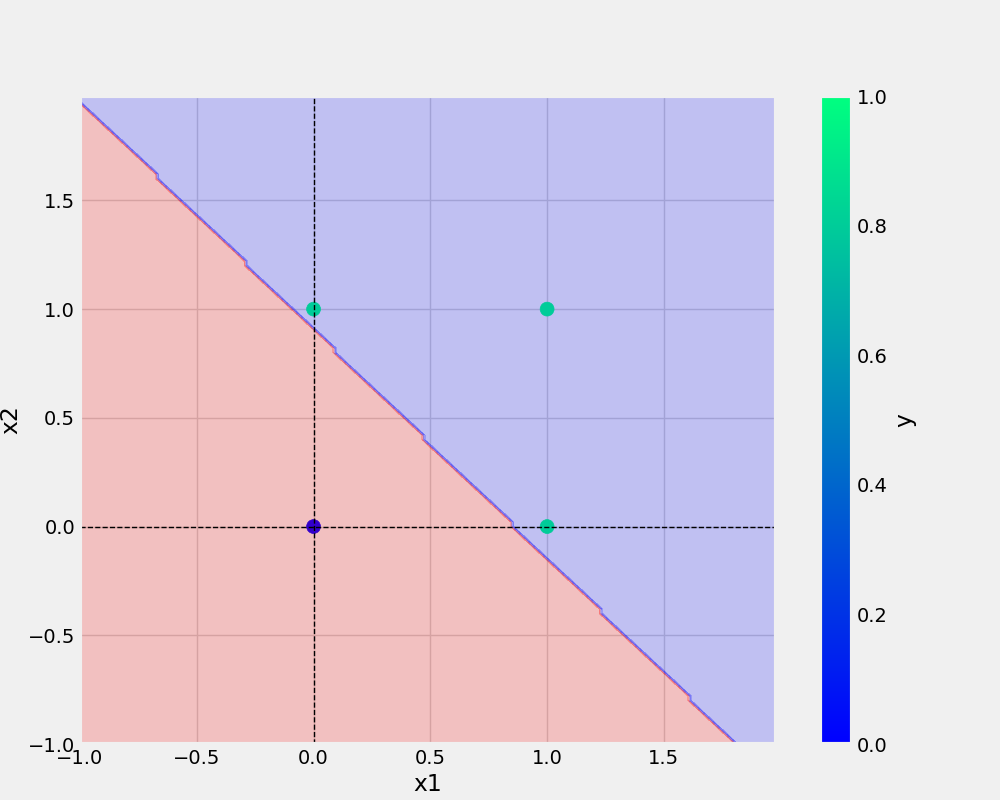
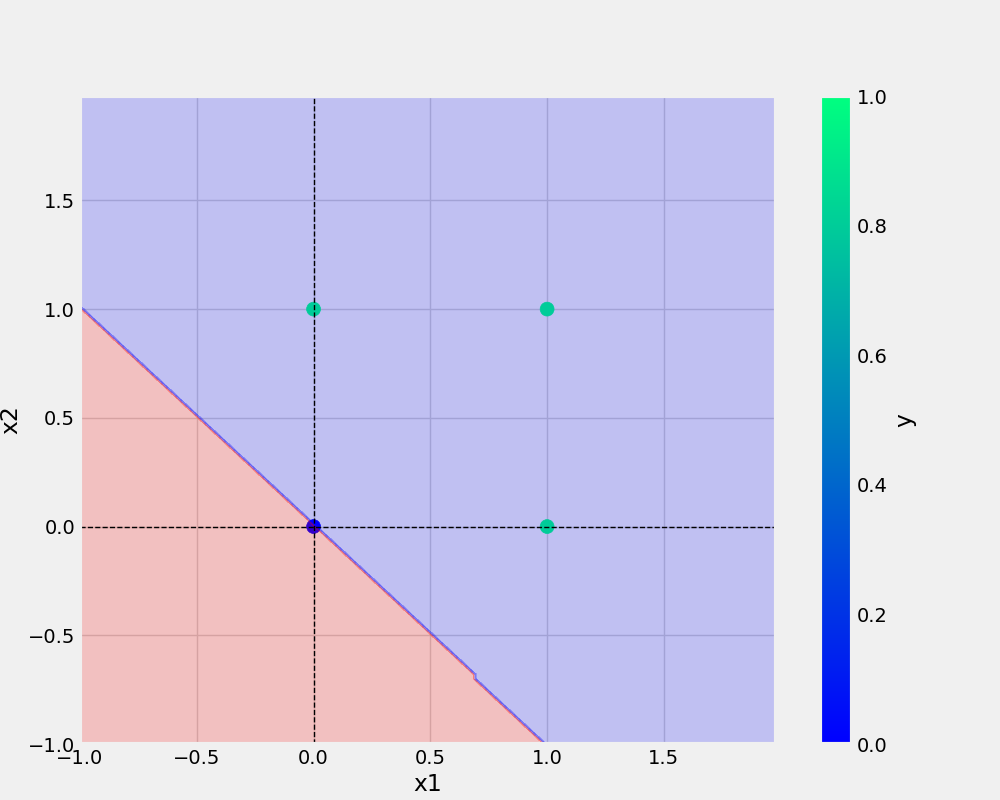
logging and progress bar addedd

Changed region(s): [[0.062, 0.125, 0.744, 0.9375]]

diff --git a/utils/all_utils.py b/utils/all_utils.py
@@ -4,6 +4,7 @@ import pandas as pd
 import joblib   # for saving model as a binary file
 from matplotlib.colors import ListedColormap
 import os
+import logging
 
 plt.style.use("fivethirtyeight")
 
@@ -12,11 +13,12 @@ def prepare_data(df):
     """it is used to seperate the dependent variable and independednt features
 
     Args:
-        df (pd.DataFrame): its the pandas DataFrame to the  
+        df (pd.DataFrame): its the pandas DataFrame to   
 
     Returns:
         tuple: it returns the tuples of dependent variables and independent variables
     """
+    logging.info("preparing the data by segregating dependent and independent variable")
     X = df.drop("y", axis=1)
     y = df["y"]
     return X, y
@@ -28,14 +30,21 @@ def save_model(model, filename):
         model (python object): trained model to
         filename (str]): path to save the trained model
     """
-  model_dir = "models"
-  os.makedirs(model_dir, exist_ok=True) # ONLY CREATE IF MODEL_DIR DOESN"T EXISTS
-  filePath = os.path.join(model_dir, filename) # model/filename
-  joblib.dump(model, filePath)
-
+    logging.info("saving the trained model")
+    model_dir = "models"
+    os.makedirs(model_dir, exist_ok=True) # ONLY CREATE IF MODEL_DIR DOESN"T EXISTS
+    filePath = os.path.join(model_dir, filename) # model/filename
+    joblib.dump(model, filePath)
+    logging.info(f"saved the trained model {filePath}")
 
 def save_plot(df, file_name, model):
+    """
+    :param df:  its a DataFrame
+    :param file_name: its path to save the plot
+    :param model: trained model
+    """
     def _create_base_plot(df):
+        logging.info("creatig the base plot")
         df.plot(kind="scatter", x="x1", y="x2", c="y", s=100, cmap="winter")
         plt.axhline(y=0, color="black", linestyle="--", linewidth=1)
         plt.axvline(x=0, color="black", linestyle="--", linewidth=1)
@@ -43,6 +52,7 @@ def save_plot(df, file_name, model):
         figure.set_size_inches(10, 8)
 
     def _plot_decision_regions(X, y, classifier, resolution=0.02):
+        logging.info("creating decision regions")
         colors = ("red", "blue", "lightgreen", "gray", "cyan")
         colormap = ListedColormap(colors[: len(np.unique(y))])
 
@@ -54,8 +64,8 @@ def save_plot(df, file_name, model):
 
         xx1, xx2 = np.meshgrid(np.arange(x1_min, x1_max, resolution),
                                np.arange(x2_min, x2_max, resolution))
-        print(xx1)
-        print(xx1.ravel())
+        #print(xx1)
+        #print(xx1.ravel())
         Z = classifier.predict(np.array([xx1.ravel(), xx2.ravel()]).T)
         Z = Z.reshape(xx1.shape)
         plt.contourf(xx1, xx2, Z, alpha=0.2, cmap=colormap)
@@ -69,3 +79,4 @@ def save_plot(df, file_name, model):
     os.makedirs(plot_dir, exist_ok=True)  # ONLY CREATE IF MODEL_DIR DOES NOT EXISTS
     plotPath = os.path.join(plot_dir, file_name)  # model/filename
     plt.savefig(plotPath)
+    logging.info(f"saving the plot at {plotPath}")

diff --git a/utils/model.py b/utils/model.py
@@ -1,10 +1,10 @@
 import numpy as np
-
-
+import logging
+from tqdm import tqdm   # to show progress bar for "for" loop
 class Perceptron:
   def __init__(self, eta, epochs):
     self.weights = np.random.randn(3) * 1e-4 # SMALL WEIGHT INIT
-    print(f"initial weights before training: \n{self.weights}")
+    logging.info(f"initial weights before training: \n{self.weights}")
     self.eta = eta # LEARNING RATE
     self.epochs = epochs 
 
@@ -18,20 +18,20 @@ class Perceptron:
     self.y = y
 
     X_with_bias = np.c_[self.X, -np.ones((len(self.X), 1))] # CONCATINATION
-    print(f"X with bias: \n{X_with_bias}")
+    logging.info(f"X with bias: \n{X_with_bias}")
 
-    for epoch in range(self.epochs):
-      print("--"*10)
-      print(f"for epoch: {epoch}")
-      print("--"*10)
+    for epoch in tqdm(range(self.epochs),total=self.epochs,desc="training the model"):
+      logging.info("--"*10)
+      logging.info(f"for epoch: {epoch}")
+      logging.info("--"*10)
 
       y_hat = self.activationFunction(X_with_bias, self.weights) # foward propagation
-      print(f"predicted value after forward pass: \n{y_hat}")
+      logging.info(f"predicted value after forward pass: \n{y_hat}")
       self.error = self.y - y_hat
-      print(f"error: \n{self.error}")
+      logging.info(f"error: \n{self.error}")
       self.weights = self.weights + self.eta * np.dot(X_with_bias.T, self.error) # backward propagation
-      print(f"updated weights after epoch:\n{epoch}/{self.epochs} : \n{self.weights}")
-      print("#####"*10)
+      logging.info(f"updated weights after epoch:\n{epoch}/{self.epochs} : \n{self.weights}")
+      logging.info("#####"*10)
 
 
   def predict(self, X):
@@ -40,5 +40,5 @@ class Perceptron:
 
   def total_loss(self):
     total_loss = np.sum(self.error)
-    print(f"total loss: {total_loss}")
+    logging.info(f"total loss: {total_loss}")
     return total_loss

diff --git a/or.py b/or.py
@@ -1,11 +1,23 @@
+"""
+author:TRM
+email: 
+"""
+
 from utils.model import Perceptron
 from utils.all_utils import prepare_data, save_plot, save_model
 import pandas as pd
+import os
+import logging  # to display info and saved in log file intead of print command
 
+# asctime= code executed time, levelname=all info happeneing.. module=which module got executed..message=message to print
+logging_str="[%(asctime)s: %(levelname)s: %(module)s] %(message)s"
+log_dir='logs'
+os.makedirs(log_dir,exist_ok=True)
+logging.basicConfig(filename=os.path.join(log_dir,'running_logs.log'),level=logging.INFO, format=logging_str,filemode='a')
 
 def main(data, modelName, plotName, eta, epochs):
     df = pd.DataFrame(data)
-    print(df)
+    logging.info(f"This is actual dataframe {df}")
     X, y = prepare_data(df)
     model = Perceptron(eta=eta, epochs=epochs)
     model.fit(X, y)
@@ -21,5 +33,11 @@ if __name__ == '__main__':
         "y": [0,1,1,1],
     }
     ETA = 0.3 # 0 and 1
-    EPOCHS = 10
-    main(data=OR, modelName="or.model", plotName="or.png", eta=ETA, epochs=EPOCHS)
+    EPOCHS = 100
+    try:
+        logging.info(">>>>>> starting training >>>>>>>")
+        main(data=OR, modelName="or.model", plotName="or.png", eta=ETA, epochs=EPOCHS)
+        logging.info("<<<<<<< training done successfully <<<<<<<<<\n")
+    except Exception as e:
+        logging.exception(e)
+        raise e

diff --git a/utils/__init__.py b/utils/__init__.py
@@ -1,2 +1,2 @@
-print("utils package is impotant")
+print("utils package is imported")
 __version__= "0.0.1"
